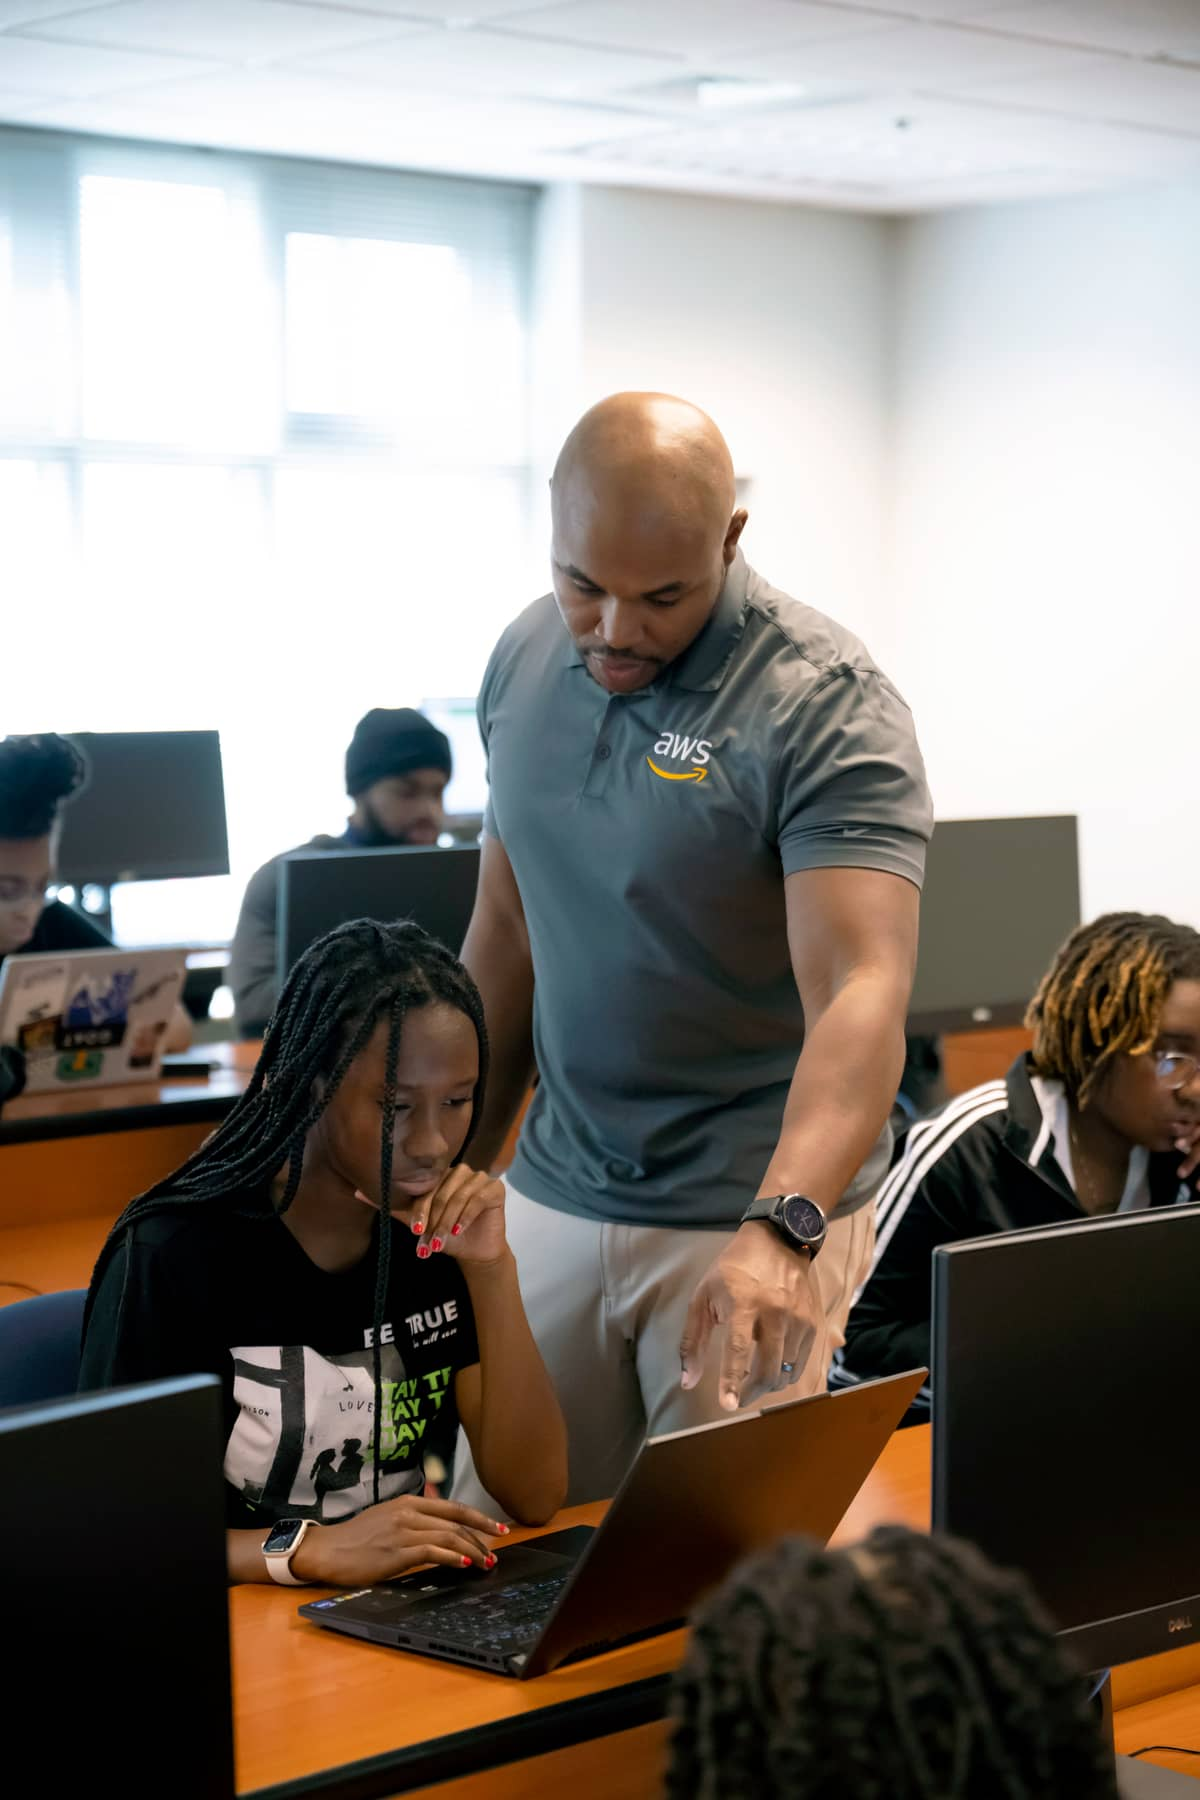
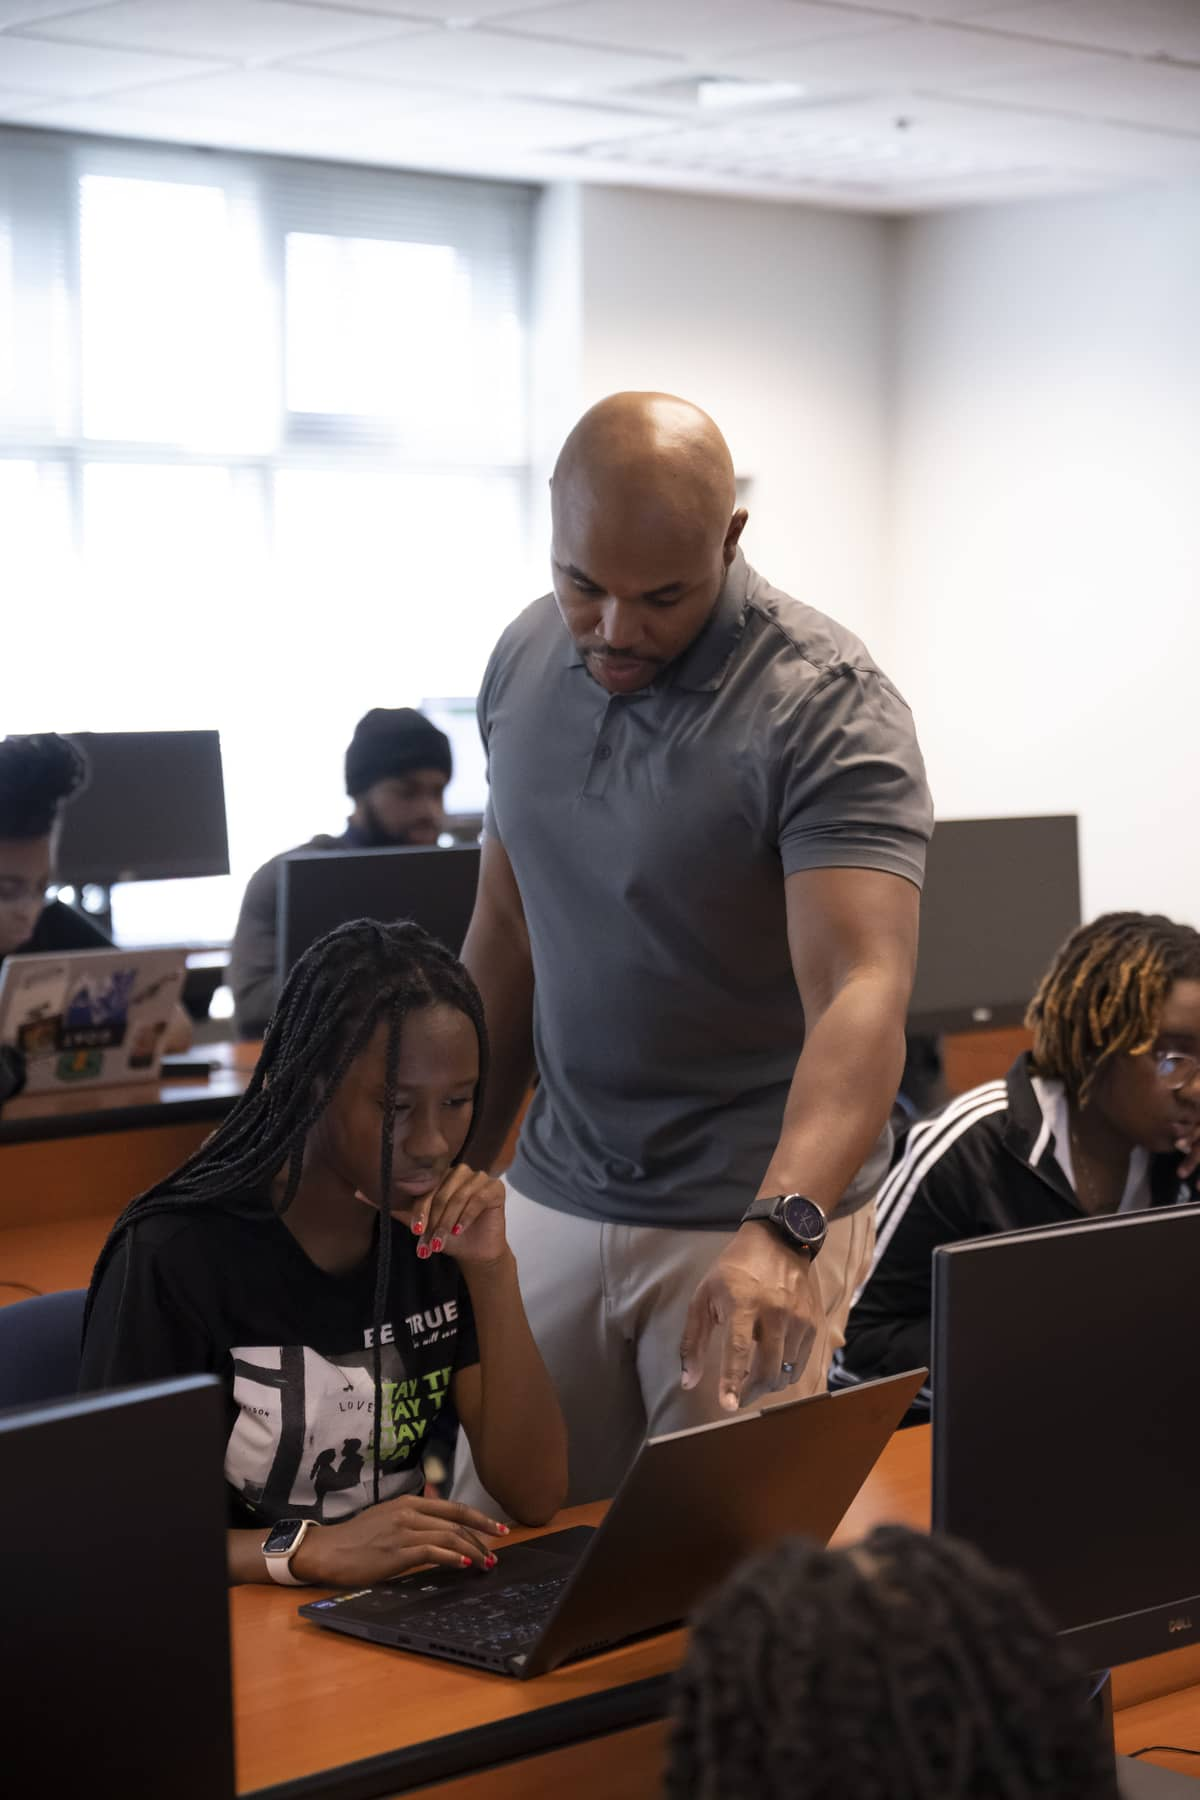
Spreadsheet Edits

diff --git a/src/lib/scripts/programs.js b/src/lib/scripts/programs.js
@@ -28,7 +28,6 @@ export const programs = [
         highlightsImageAlt: 'Students collaborating in a lab',
         highlightsBullets: [
             "Evening classes",
-			"14:1 student-to-faculty ratio",
 			"Faculty mentorship",
 			"Real-world projects",
 			"State-of-the-art labs"
@@ -51,7 +50,7 @@ export const programs = [
         ],
         
         realWorldAppImage: '/images/mat-real-world-application.webp',
-        realWorldAppCopy: "Gain the skills, confidence, and real-world opportunities to advance your career through courses in Teaching Diverse Classrooms, Psychology of Teaching and Learning.",
+        realWorldAppCopy: "Gain the skills, confidence, and real-world opportunities to advance your career through courses in Teaching Diverse Classrooms and Psychology of Teaching and Learning.",
         realWorldAppHeader: "Lead Every Room",
         
         affordabilityHeader: "AFFORDABILITY WITHOUT COMPROMISE",
@@ -247,7 +246,7 @@ export const programs = [
         
         statisticsBar: [
             {
-				value: '99%',
+				value: '98%',
 				description: 'job or doctoral<br />placement rate',
                 needsApproval: false
 			},

diff --git a/src/lib/components/InquiryForm.svelte b/src/lib/components/InquiryForm.svelte
@@ -75,7 +75,7 @@
               {/if}
             
           </label>
-          {#if program === "msn" || program === "fnp" }
+          {#if program == "msn" && programCode == ""}
             <label>
               <span>Concentration <b>*</b></span>
               <select name="concentration" required>

diff --git a/src/lib/components/StatRow.svelte b/src/lib/components/StatRow.svelte
@@ -22,6 +22,7 @@
 </section>
 
 <style>
+  
   .stats.blue {
     color: var(--blue);
   }
